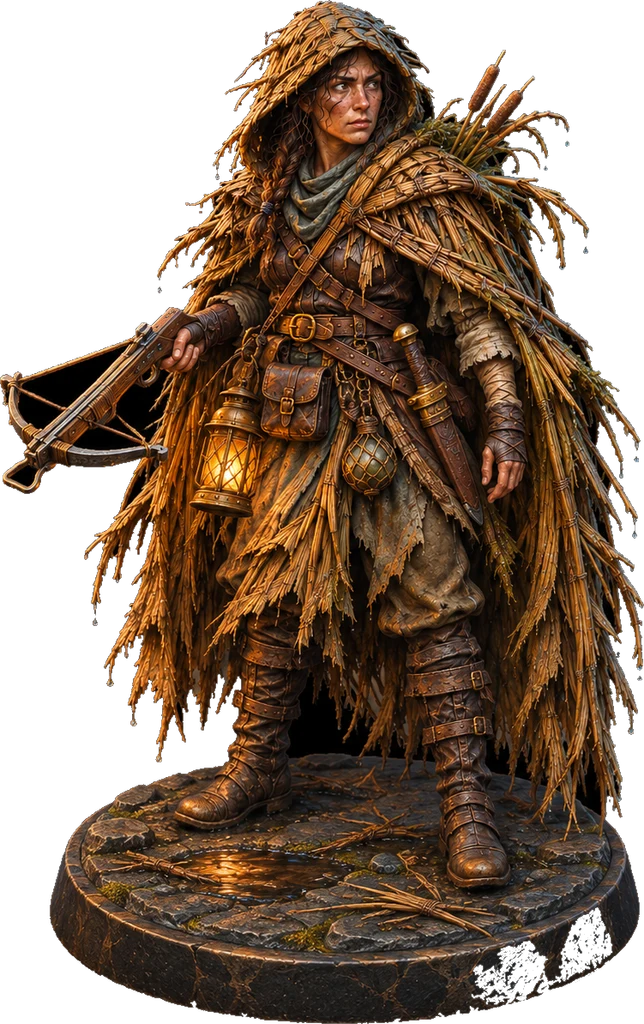
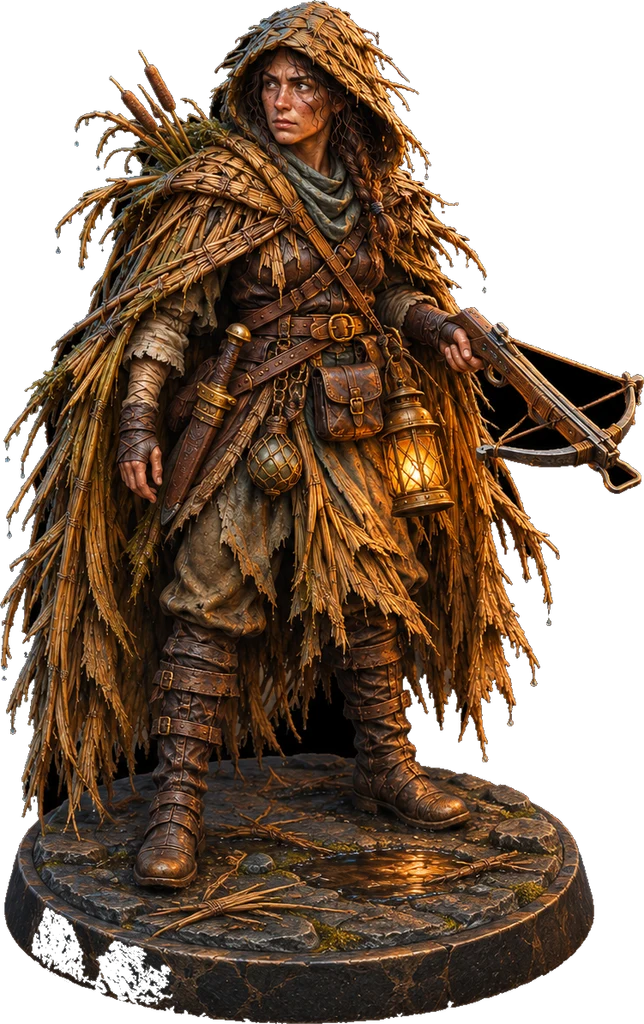
Standing figures turn to the nearest opponent
Owner, 2026-11-17: the figures on the tilted board looked anywhere but at
each other.

- Convention: every figure picture faces right. The board mirrors a figure
  whose nearest opponent still standing is to its left (party to the
  nearest hostile, a hostile to the nearest of the party; neutrals and lone
  figures keep facing right). `combat/board/facing.ts`, unit tests.
- The 12 figures drawn facing left are mirrored once where they are built,
  reproducibly: `mirror` in the curated-set generation manifests (Ravenford:
  brother Aldous and the three goblins; Hollowmere: five), `facesLeft` in a
  campaign's art prompts, which writes `runtime/<id>--figure.webp` beside the
  picture (marrow-crown token-follower, salt-widows token-predator); the
  picture itself stays as drawn. The curated manifest schema accepts
  `mirrored`.
- Pictures a DM generates in play ask for a figure turned to the right.

Changed art bytes: 9 curated figures and 2 new library figure files, each
the same pixels mirrored; every other file rebuilds byte for byte.

diff --git a/apps/web/src/combat/board/facing.ts b/apps/web/src/combat/board/facing.ts
@@ -1,0 +1,42 @@
+import type { EncounterCombatantView } from '@ltw/contracts';
+
+import { spanOf } from './footprint.ts';
+
+type Facing = Pick<EncounterCombatantView, 'position' | 'side' | 'state' | 'size' | 'squeezed'> & {
+  readonly entity: { readonly entityId: string };
+};
+
+/**
+ * Which standing figures turn to their left (owner, 2026-11-17: the figures on the tilted board
+ * looked anywhere but at each other). Every figure picture faces right (the campaign art and the
+ * curated sets are drawn or mirrored so); a figure turns left — drawn mirrored — when the nearest
+ * opponent still standing is to its left: the party faces the nearest hostile, a hostile the
+ * nearest of the party. Nearest by squares between the centres of their spaces (the greater of
+ * across and along, then across); a neutral, one with no opponent standing, or one with its
+ * opponent straight ahead or behind keeps facing right. Decorative only: the squares' names and
+ * the turn order say who is where.
+ */
+export function turnedLeft(combatants: readonly Facing[]): ReadonlySet<string> {
+  const centre = (entry: Facing) => {
+    const half = spanOf(entry) / 2;
+    return { x: entry.position.x + half, y: entry.position.y + half };
+  };
+  const left = new Set<string>();
+  for (const entry of combatants) {
+    const against =
+      entry.side === 'party' ? 'hostile' : entry.side === 'hostile' ? 'party' : undefined;
+    if (!against) continue;
+    const here = centre(entry);
+    let nearest: { x: number; far: number; across: number } | null = null;
+    for (const other of combatants) {
+      if (other.side !== against || other.state === 'dead') continue;
+      const there = centre(other);
+      const across = Math.abs(there.x - here.x);
+      const far = Math.max(across, Math.abs(there.y - here.y));
+      if (nearest === null || far < nearest.far || (far === nearest.far && across > nearest.across))
+        nearest = { x: there.x, far, across };
+    }
+    if (nearest && nearest.x < here.x) left.add(entry.entity.entityId);
+  }
+  return left;
+}

diff --git a/apps/web/src/combat/board/facing.test.ts b/apps/web/src/combat/board/facing.test.ts
@@ -1,0 +1,59 @@
+import { describe, expect, it } from 'vitest';
+
+import { turnedLeft } from './facing.ts';
+
+const at = (
+  entityId: string,
+  side: 'party' | 'hostile' | 'neutral',
+  x: number,
+  y: number,
+  extra: { state?: 'up' | 'down' | 'dead'; size?: 'medium' | 'large' } = {},
+) => ({
+  entity: { entityId },
+  side,
+  position: { x, y },
+  state: extra.state ?? 'up',
+  ...(extra.size ? { size: extra.size } : {}),
+});
+
+describe('standing figures turn to the nearest opponent', () => {
+  it('turns a figure left when its nearest opponent stands to its left', () => {
+    const left = turnedLeft([at('hero', 'party', 2, 6), at('goblin', 'hostile', 8, 4)]);
+    expect([...left]).toEqual(['goblin']);
+  });
+
+  it('takes the nearest opponent, and passes over the dead', () => {
+    const fight = [
+      at('hero', 'party', 6, 5),
+      at('near', 'hostile', 4, 5),
+      at('far', 'hostile', 12, 5),
+      at('fallen', 'hostile', 7, 5, { state: 'dead' }),
+    ];
+    const left = turnedLeft(fight);
+    expect(left.has('hero')).toBe(true);
+    expect(turnedLeft(fight.filter((entry) => entry.entity.entityId !== 'near')).has('hero')).toBe(
+      false,
+    );
+  });
+
+  it('keeps a neutral, a lone figure and one with its opponent straight ahead facing right', () => {
+    const left = turnedLeft([
+      at('hero', 'party', 5, 5),
+      at('ahead', 'hostile', 5, 2),
+      at('stranger', 'neutral', 9, 9),
+    ]);
+    expect(left.size).toBe(0);
+    expect(turnedLeft([at('alone', 'party', 5, 5)]).size).toBe(0);
+  });
+
+  it('measures from the middle of a large space', () => {
+    // An ogre over squares 4–5 has its middle at 5; a hero in square 4 (middle 4.5) has it to
+    // the right, though the ogre's space begins in the hero's own column.
+    const left = turnedLeft([
+      at('ogre', 'hostile', 4, 4, { size: 'large' }),
+      at('hero', 'party', 4, 6),
+    ]);
+    expect(left.has('hero')).toBe(false);
+    expect(left.has('ogre')).toBe(true);
+  });
+});

diff --git a/scripts/curated-set/cli.ts b/scripts/curated-set/cli.ts
@@ -11,7 +11,7 @@ import { floodOut, load, toSharp } from '../ui-kit/pixels.ts';
  * Turns the GPT originals of a curated set (ADR 0035; Ravenford's, or an adventure's named by
  * `set`, its items naming their `entityIds`) into WebP files and writes
  * <out-dir>/manifest.json with provenance. Processing is mechanical: resize, crop the battle map
- * to the grid's 4:3, black to alpha for figures.
+ * to the grid's 4:3, black to alpha for figures, a left-facing figure mirrored (`mirror`).
  */
 interface GenerationItem {
   readonly name: string;
@@ -30,6 +30,12 @@ interface GenerationItem {
    * the 16 × 12 road map's 4:3 centre.
    */
   readonly grid?: readonly [number, number];
+  /**
+   * A figure drawn facing left, mirrored so that every figure faces right: the board turns a
+   * figure to its nearest opponent by mirroring it back (owner, 2026-11-17;
+   * `apps/web/src/combat/board/facing.ts`).
+   */
+  readonly mirror?: true;
 }
 
 /**
@@ -111,12 +117,14 @@ async function encode(item: GenerationItem, source: string): Promise<Buffer> {
         .webp({ quality: 84 })
         .toBuffer();
     }
-    case 'figure':
-      return toSharp(floodOut(await load(source), 30))
+    case 'figure': {
+      const figure = toSharp(floodOut(await load(source), 30));
+      return (item.mirror ? figure.flop() : figure)
         .trim({ threshold: 1 })
         .resize({ height: 1024, withoutEnlargement: true })
         .webp({ quality: 88, alphaQuality: 100 })
         .toBuffer();
+    }
   }
 }
 
@@ -149,6 +157,7 @@ for (const item of items) {
     generated: (await stat(source)).mtime.toISOString().slice(0, 10),
     references: item.refs.map((ref) => CONCEPTS[ref] ?? ref),
     prompt: item.prompt,
+    ...(item.mirror ? { mirrored: true } : {}),
   });
   console.log(`built ${file} (${String(Math.round(data.length / 1024))} KB)`);
 }

diff --git a/scripts/campaign-shared/campaign-art.ts b/scripts/campaign-shared/campaign-art.ts
@@ -26,6 +26,12 @@ export interface ArtPrompt {
   srd?: string;
   /** First evening a player may see it, when the picture shows more than the entity's first appearance. */
   reveal?: number;
+  /**
+   * A cut-out drawn facing left: its tabletop figure is mirrored so that every figure faces right
+   * (owner, 2026-11-17; the board turns a figure to its nearest opponent,
+   * `apps/web/src/combat/board/facing.ts`). The picture itself stays as drawn.
+   */
+  facesLeft?: true;
 }
 export interface ArtAsset {
   id: string;
@@ -46,6 +52,24 @@ export interface ArtAsset {
   srd?: string;
   prompt: string;
   references: string[];
+  /** Its tabletop figure, the picture mirrored (`ArtPrompt.facesLeft`): runtime file and hash. */
+  figureFile?: string;
+  figureSha256?: string;
+}
+
+/**
+ * The tabletop figure of a cut-out drawn facing left: its runtime picture mirrored, written beside
+ * it as `runtime/<id>--figure.webp` (`ArtPrompt.facesLeft`).
+ */
+export async function writeMirroredFigure(
+  assetsDir: URL,
+  id: string,
+): Promise<{ figureFile: string; figureSha256: string }> {
+  const picture = await readFile(new URL(`runtime/${id}.webp`, assetsDir));
+  const figure = await sharp(picture).flop().webp({ quality: 88, effort: 5 }).toBuffer();
+  const figureFile = `runtime/${id}--figure.webp`;
+  await writeFile(new URL(figureFile, assetsDir), figure);
+  return { figureFile, figureSha256: hash(figure) };
 }
 
 /** What the art tools read from a campaign source; collection and fantasy sources both fit. */
@@ -166,6 +190,7 @@ export async function prepareArt(campaignDir: URL, s: ArtSource): Promise<ArtAss
       ...(entry.srd ? { srd: entry.srd } : {}),
       prompt: entry.prompt,
       references: entry.references,
+      ...(entry.facesLeft ? await writeMirroredFigure(dir, entry.id) : {}),
     });
   }
   await writeFile(

diff --git a/apps/web/src/combat/board/board.tsx b/apps/web/src/combat/board/board.tsx
@@ -21,6 +21,7 @@ import { dangersOf } from './dangers.ts';
 import { BoardPlates } from './plates.tsx';
 import { squareName } from './square-name.ts';
 import { TerrainCard } from './terrain-card.tsx';
+import { turnedLeft } from './facing.ts';
 import { footprint, spanOf } from './footprint.ts';
 import { CoverPiece, Token } from './token.tsx';
 import { usePaintStroke } from './paint-stroke.ts';
@@ -135,6 +136,7 @@ export function Board({
   );
   const walk = new Set(path.map(key));
   const destination = path.at(-1);
+  const facingLeft = turnedLeft(encounter.combatants);
   const mover = encounter.combatants.find((entry) => entry.entity.entityId === moverId);
   // The pointer over a square, or over the plate of the combatant standing on it (`plates.tsx`).
   const point = (square: Square, over: boolean) => {
@@ -299,6 +301,7 @@ export function Board({
               image={imageOf(occupant.entity.entityId)}
               figure={figureOf(occupant.entity.entityId)}
               tilted={tilt !== null}
+              facingLeft={facingLeft.has(occupant.entity.entityId)}
               current={occupant.entity.entityId === currentCombatantId}
               selected={isSelected}
               inArea={inArea}
@@ -313,6 +316,7 @@ export function Board({
               image={imageOf(rider.entity.entityId)}
               figure={figureOf(rider.entity.entityId)}
               tilted={tilt !== null}
+              facingLeft={facingLeft.has(rider.entity.entityId)}
               current={rider.entity.entityId === currentCombatantId}
               selected={false}
               inArea={affected.has(rider.entity.entityId)}

diff --git a/scripts/campaign-library/catalog.ts b/scripts/campaign-library/catalog.ts
@@ -165,16 +165,28 @@ async function picturesOf(
       derivedFrom: null,
     });
     if (asset.kind === 'location') locationFile.set(asset.subjects[0] ?? '', `${asset.id}.webp`);
-    // A cut-out figure doubles as the creature's tabletop figure on the battlefield.
-    if (asset.kind === 'token' || (asset.alpha && asset.width >= asset.height * 0.5))
+    // A cut-out figure doubles as the creature's tabletop figure on the battlefield; one drawn
+    // facing left stands as its mirrored file, so every figure faces right (`ArtPrompt.facesLeft`).
+    if (asset.kind === 'token' || (asset.alpha && asset.width >= asset.height * 0.5)) {
+      const mirrored = asset.figureFile
+        ? await (async () => {
+            const at = new URL(`assets/${asset.figureFile ?? ''}`, root);
+            const figure = new Uint8Array(await readFile(at));
+            if (sha(figure) !== asset.figureSha256)
+              throw new Error(`${asset.id}: figure bytes changed`);
+            return { source: relative(at), bytes: figure, sha256: sha(figure) };
+          })()
+        : {};
       pictures.push({
         ...base,
+        ...mirrored,
         file: `${asset.id}--figure.webp`,
         variant: 'derived',
         label: 'figure',
         purpose: 'figure',
         derivedFrom: `${asset.id}.webp`,
       });
+    }
   }
   for (const map of battleMaps(root)) {
     const reference = locationFile.get(map.location);

diff --git a/apps/server/src/images/style.ts b/apps/server/src/images/style.ts
@@ -58,10 +58,13 @@ const VARIANT_PARTS: Readonly<Record<string, string>> = {
   dead: 'lying still and lifeless, eyes closed, no gore',
 };
 
+// Every figure faces right: the board turns one to its nearest opponent by mirroring it
+// (owner, 2026-11-17; apps/web/src/combat/board/facing.ts).
 const FIGURE =
   'Draw a full-body painted tabletop miniature of the same character standing on a round dark ' +
-  'stone base, three-quarter view from slightly above, isolated on a pure flat black background ' +
-  '(#000000), no cast shadow beyond the base. FRAMING: square 1:1.';
+  'stone base, three-quarter view from slightly above, body and gaze turned toward the ' +
+  "viewer's right, isolated on a pure flat black background (#000000), no cast shadow beyond " +
+  'the base. FRAMING: square 1:1.';
 
 const BATTLE_MAP =
   'Draw the same place seen straight from above as a tabletop battle map (orthographic ' +

diff --git a/apps/web/src/combat/board/token.tsx b/apps/web/src/combat/board/token.tsx
@@ -51,6 +51,7 @@ export function Token({
   span = 1,
   cell = 0,
   riding = false,
+  facingLeft = false,
 }: {
   readonly combatant: EncounterCombatantView;
   /** Its name, or "Unidentified creature N" (`combat/labels.ts`). */
@@ -74,6 +75,8 @@ export function Token({
   readonly riding?: boolean;
   /** The board's square in pixels, to scale a spanning figure. */
   readonly cell?: number;
+  /** Its standing figure turns to its left, to the nearest opponent (`facing.ts`). */
+  readonly facingLeft?: boolean;
 }) {
   const t = useT();
   const standing = useHeldImage(figure);
@@ -114,7 +117,7 @@ export function Token({
           </span>
         )}
         {upright ? (
-          <Miniature url={standing.url} condition={condition} />
+          <Miniature url={standing.url} condition={condition} mirrored={facingLeft} />
         ) : (
           <Medallion
             image={image}

diff --git a/apps/web/src/visual/miniature.tsx b/apps/web/src/visual/miniature.tsx
@@ -12,12 +12,18 @@ import type { MedallionCondition } from './medallion.tsx';
 export function Miniature({
   url,
   condition = null,
+  mirrored = false,
 }: {
   readonly url: string | null;
   readonly condition?: MedallionCondition | null;
+  /** Drawn mirrored, turned to its left (every figure picture faces right). */
+  readonly mirrored?: boolean;
 }) {
   return (
-    <span className={`miniature${condition ? ` is-${condition}` : ''}`} aria-hidden="true">
+    <span
+      className={`miniature${condition ? ` is-${condition}` : ''}${mirrored ? ' is-mirrored' : ''}`}
+      aria-hidden="true"
+    >
       <span className="miniature-light" />
       {url && <img className="miniature-art" src={url} alt="" draggable={false} />}
       {condition && <Glyph name={condition} className="miniature-condition" />}

diff --git a/apps/server/src/images/curated-set.ts b/apps/server/src/images/curated-set.ts
@@ -48,6 +48,11 @@ const entrySchema = z
     generated: z.string().regex(/^\d{4}-\d{2}-\d{2}$/),
     references: z.array(z.string().min(1)),
     prompt: z.string().min(1),
+    /**
+     * A figure drawn facing left and mirrored when the set was built, so that every figure faces
+     * right (owner, 2026-11-17; `scripts/curated-set`, `apps/web/src/combat/board/facing.ts`).
+     */
+    mirrored: z.literal(true).optional(),
   })
   .strict();
 

diff --git a/apps/web/src/styles/figures.css b/apps/web/src/styles/figures.css
@@ -37,6 +37,10 @@
   translate: -50% 0;
   user-select: none;
 }
+/* Turned to its left: the picture mirrored about its middle, the base where it stood */
+.miniature.is-mirrored .miniature-art {
+  scale: -1 1;
+}
 .miniature.is-dead .miniature-art,
 .miniature.is-unconscious .miniature-art {
   filter: grayscale(1) brightness(0.6);
